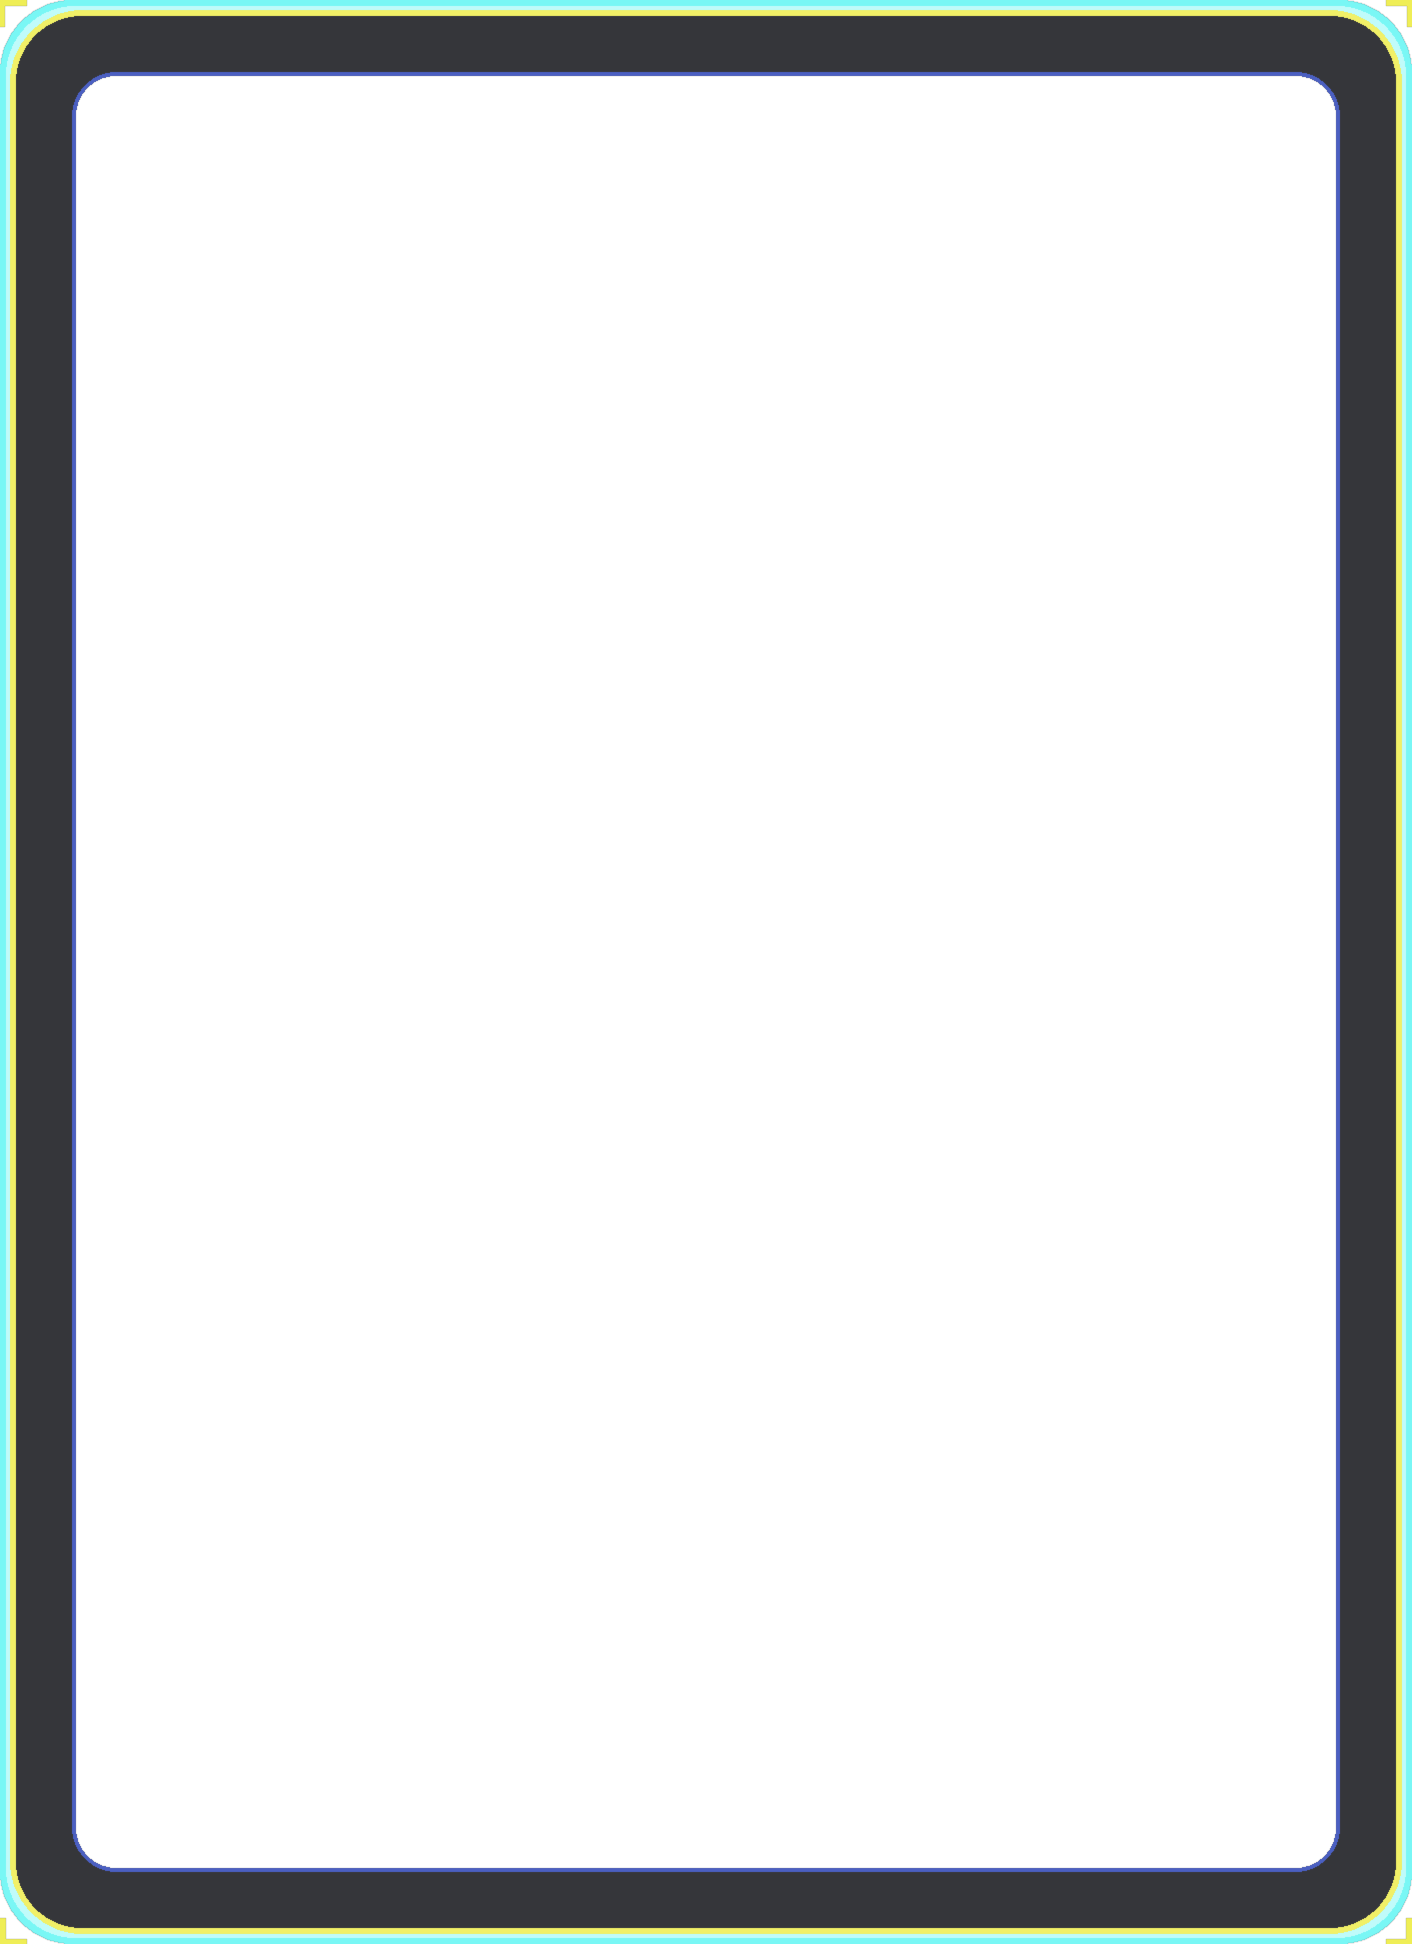
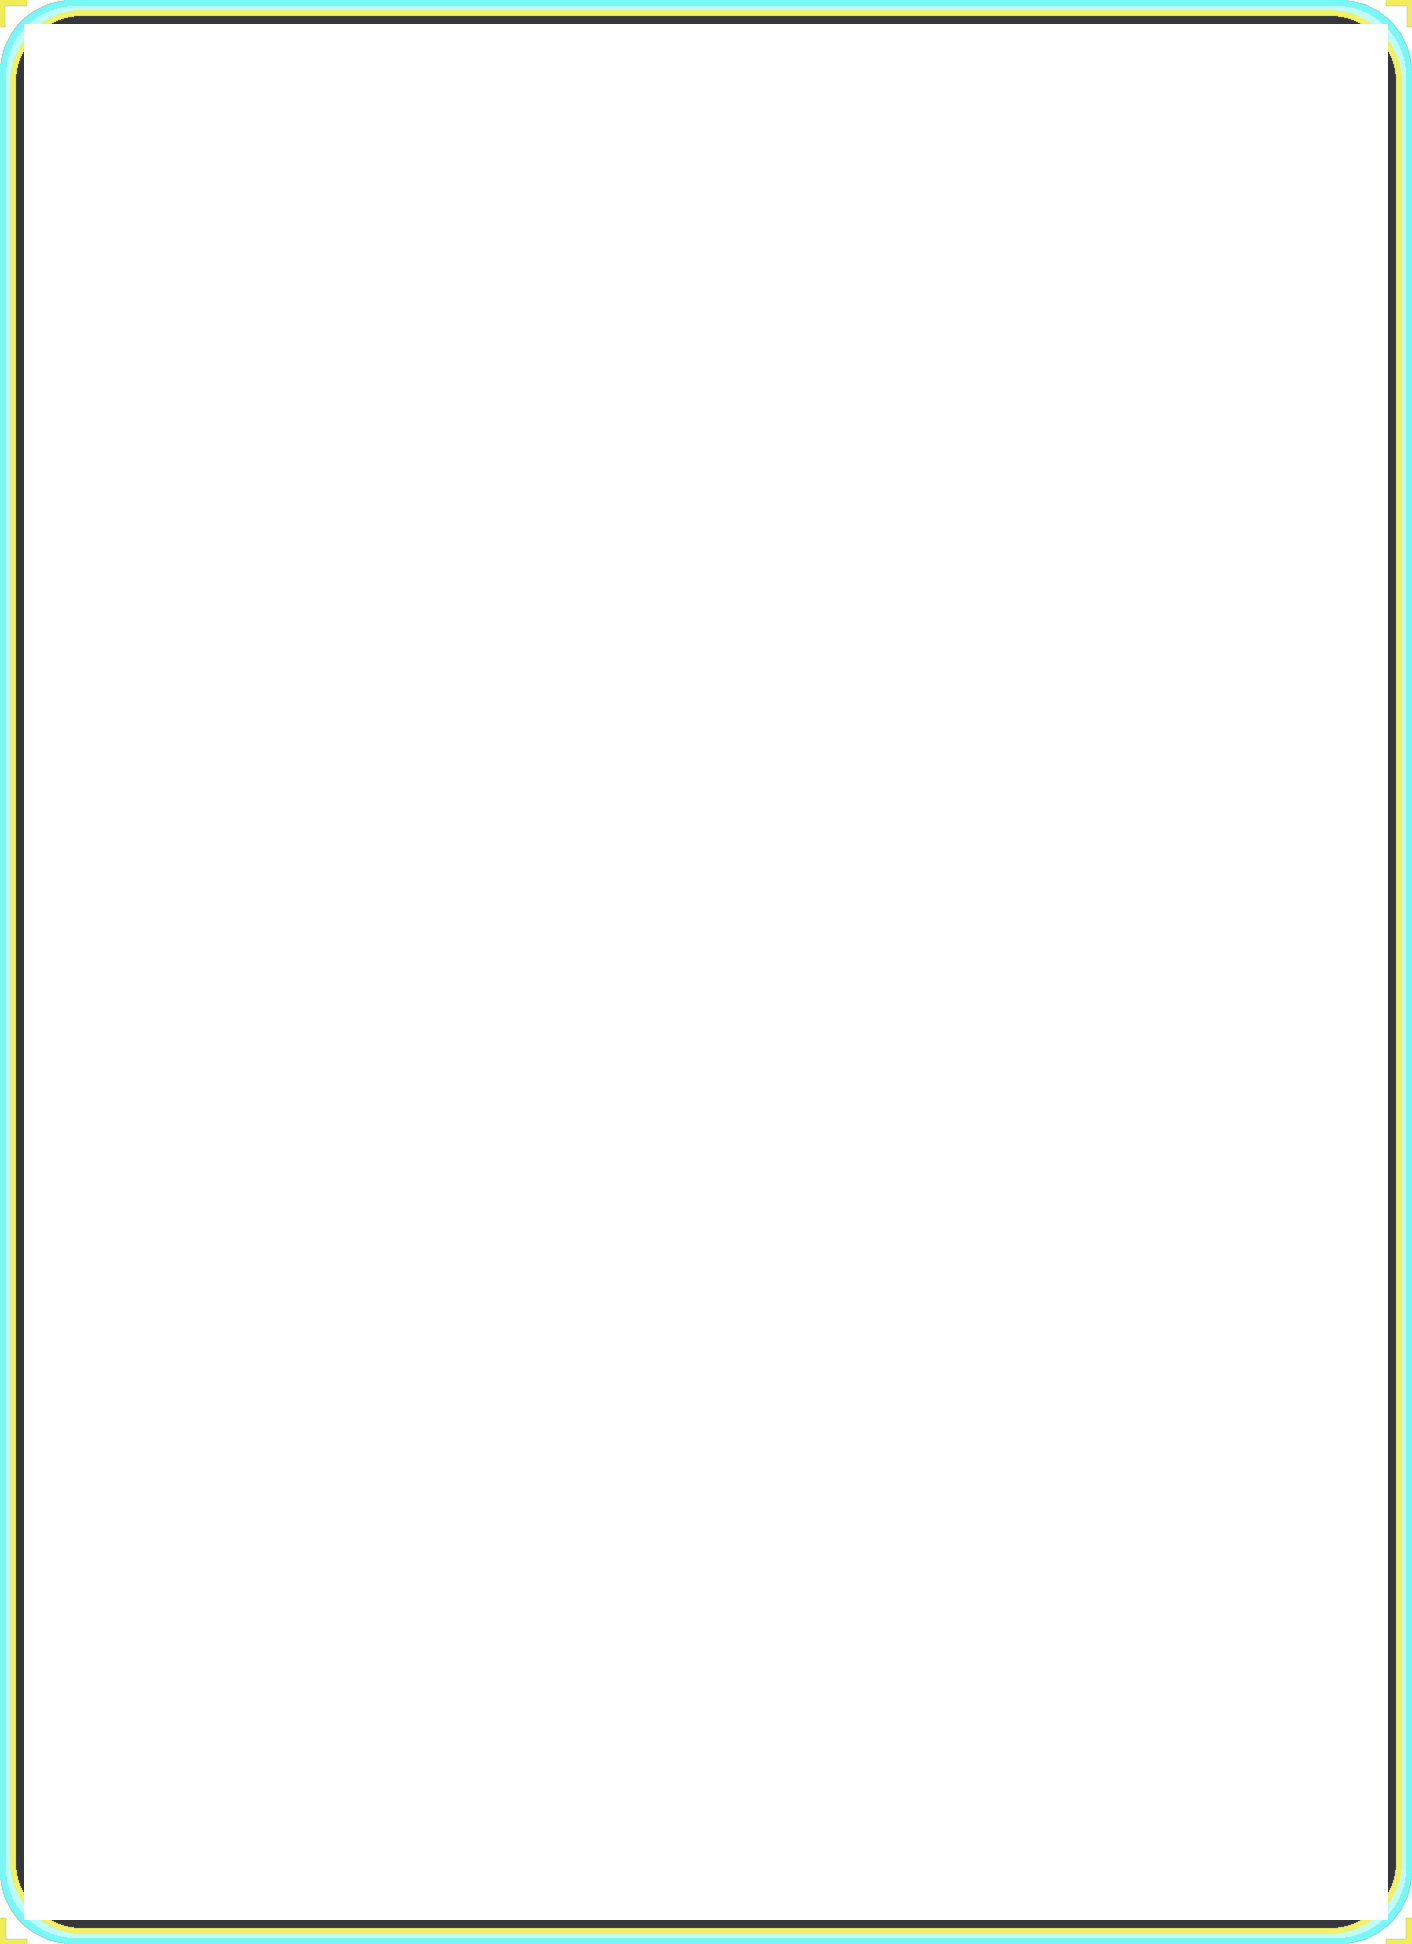
Add files via upload

Changed region(s): [[0.0, 0.0, 0.9972, 0.9877]]

diff --git a/wx-minigame-standard/mobile-wechat-standard.html b/wx-minigame-standard/mobile-wechat-standard.html
@@ -4,8 +4,8 @@
   <meta charset="UTF-8" />
   <meta name="viewport" content="width=device-width, initial-scale=1.0, viewport-fit=cover, user-scalable=no" />
   <title>我要当大王 - 微信小游戏迁移版</title>
-  <link rel="stylesheet" href="./styles.css?v=20260918-wxmini-29" />
-  <link rel="stylesheet" href="./wechat-shell-standard.css?v=20260918-wxmini-29" />
+  <link rel="stylesheet" href="./styles.css?v=20260918-wxmini-30" />
+  <link rel="stylesheet" href="./wechat-shell-standard.css?v=20260918-wxmini-30" />
 </head>
 <body class="mobile-play-page wechat-mini-body">
   <section id="guideSplash" class="wx-guide-splash" aria-label="导航页">
@@ -31,7 +31,7 @@
           </div>
           <div class="wx-home-mascot">👑</div>
         </div>
-        <p id="menuBuildNotice" class="wx-menu-build-notice">当前版本 standard-web · 更新时间 2026-09-18 wxmini-29</p>
+        <p id="menuBuildNotice" class="wx-menu-build-notice">当前版本 standard-web · 更新时间 2026-09-18 wxmini-30</p>
         <div class="wx-menu-buttons">
           <button id="menuStartBtn" class="primary-btn wx-menu-btn" type="button">直接开始</button>
           <button id="menuRankBtn" class="ghost-btn wx-menu-btn" type="button">排行榜</button>
@@ -405,25 +405,25 @@
   <script>
     window.__BLOB_MOBILE_MODE__ = true;
     window.__BLOB_GAME_VERSION__ = "standard-web";
-    window.__BLOB_BUILD_LABEL__ = "2026-09-18 wxmini-29";
+    window.__BLOB_BUILD_LABEL__ = "2026-09-18 wxmini-30";
     window.__BLOB_USER_SYNC_URL__ = window.__BLOB_USER_SYNC_URL__ || "";
   </script>
   <script>
     if ("serviceWorker" in navigator && /^https?:$/i.test(window.location.protocol)) {
       window.addEventListener("load", () => {
-        navigator.serviceWorker.register("./sw-standard.js?v=20260918-wxmini-29", { scope: "./" })
+        navigator.serviceWorker.register("./sw-standard.js?v=20260918-wxmini-30", { scope: "./" })
           .then((registration) => registration.update().catch(() => {}))
           .catch(() => {});
       });
     }
   </script>
-  <script src="./js/services/runtime-config.js?v=20260918-wxmini-29"></script>
-  <script src="./js/services/login-service.js?v=20260918-wxmini-29"></script>
-  <script src="./js/services/ad-service.js?v=20260918-wxmini-29"></script>
-  <script src="./js/services/share-service.js?v=20260918-wxmini-29"></script>
-  <script src="./js/services/rank-service.js?v=20260918-wxmini-29"></script>
-  <script src="./js/services/update-service.js?v=20260918-wxmini-29"></script>
-  <script src="./js/blob-merge-core.js?v=20260918-wxmini-29"></script>
-  <script src="./js/game-wechat-standard.js?v=20260918-wxmini-29"></script>
+  <script src="./js/services/runtime-config.js?v=20260918-wxmini-30"></script>
+  <script src="./js/services/login-service.js?v=20260918-wxmini-30"></script>
+  <script src="./js/services/ad-service.js?v=20260918-wxmini-30"></script>
+  <script src="./js/services/share-service.js?v=20260918-wxmini-30"></script>
+  <script src="./js/services/rank-service.js?v=20260918-wxmini-30"></script>
+  <script src="./js/services/update-service.js?v=20260918-wxmini-30"></script>
+  <script src="./js/blob-merge-core.js?v=20260918-wxmini-30"></script>
+  <script src="./js/game-wechat-standard.js?v=20260918-wxmini-30"></script>
 </body>
 </html>

diff --git a/wx-minigame-standard/mobile-wechat-offline-standard.html b/wx-minigame-standard/mobile-wechat-offline-standard.html
@@ -4,8 +4,8 @@
   <meta charset="UTF-8" />
   <meta name="viewport" content="width=device-width, initial-scale=1.0, viewport-fit=cover, user-scalable=no" />
   <title>我要当大王 - 迁移版离线页</title>
-  <link rel="stylesheet" href="./styles.css?v=20260918-wxmini-29" />
-  <link rel="stylesheet" href="./wechat-shell-standard.css?v=20260918-wxmini-29" />
+  <link rel="stylesheet" href="./styles.css?v=20260918-wxmini-30" />
+  <link rel="stylesheet" href="./wechat-shell-standard.css?v=20260918-wxmini-30" />
 </head>
 <body class="mobile-play-page wechat-mini-body">
   <section id="guideSplash" class="wx-guide-splash" aria-label="导航页">
@@ -31,7 +31,7 @@
           </div>
           <div class="wx-home-mascot">👑</div>
         </div>
-        <p id="menuBuildNotice" class="wx-menu-build-notice">当前版本 standard-offline · 更新时间 2026-09-18 wxmini-29</p>
+        <p id="menuBuildNotice" class="wx-menu-build-notice">当前版本 standard-offline · 更新时间 2026-09-18 wxmini-30</p>
         <div class="wx-menu-buttons">
           <button id="menuStartBtn" class="primary-btn wx-menu-btn" type="button">开始游戏</button>
           <button id="menuRankBtn" class="ghost-btn wx-menu-btn" type="button">排行榜</button>
@@ -405,16 +405,16 @@
   <script>
     window.__BLOB_MOBILE_MODE__ = true;
     window.__BLOB_GAME_VERSION__ = "standard-offline";
-    window.__BLOB_BUILD_LABEL__ = "2026-09-18 wxmini-29";
+    window.__BLOB_BUILD_LABEL__ = "2026-09-18 wxmini-30";
     window.__BLOB_USER_SYNC_URL__ = "";
   </script>
-  <script src="./js/services/runtime-config.js?v=20260918-wxmini-29"></script>
-  <script src="./js/services/login-service.js?v=20260918-wxmini-29"></script>
-  <script src="./js/services/ad-service.js?v=20260918-wxmini-29"></script>
-  <script src="./js/services/share-service.js?v=20260918-wxmini-29"></script>
-  <script src="./js/services/rank-service.js?v=20260918-wxmini-29"></script>
-  <script src="./js/services/update-service.js?v=20260918-wxmini-29"></script>
-  <script src="./js/blob-merge-core.js?v=20260918-wxmini-29"></script>
-  <script src="./js/game-wechat-standard.js?v=20260918-wxmini-29"></script>
+  <script src="./js/services/runtime-config.js?v=20260918-wxmini-30"></script>
+  <script src="./js/services/login-service.js?v=20260918-wxmini-30"></script>
+  <script src="./js/services/ad-service.js?v=20260918-wxmini-30"></script>
+  <script src="./js/services/share-service.js?v=20260918-wxmini-30"></script>
+  <script src="./js/services/rank-service.js?v=20260918-wxmini-30"></script>
+  <script src="./js/services/update-service.js?v=20260918-wxmini-30"></script>
+  <script src="./js/blob-merge-core.js?v=20260918-wxmini-30"></script>
+  <script src="./js/game-wechat-standard.js?v=20260918-wxmini-30"></script>
 </body>
 </html>

diff --git a/wx-minigame-standard/js/services/runtime-config.js b/wx-minigame-standard/js/services/runtime-config.js
@@ -24,7 +24,7 @@
 
     return {
       version: readString(root, "__BLOB_GAME_VERSION__", wxApi ? "standard-minigame" : "standard-web"),
-      buildLabel: readString(root, "__BLOB_BUILD_LABEL__", "2026-09-18 wxmini-29"),
+      buildLabel: readString(root, "__BLOB_BUILD_LABEL__", "2026-09-18 wxmini-30"),
       appId: readString(overrides, "appId", wxApi ? "touristappid" : ""),
       apiBaseUrl: apiBase,
       sync: {

diff --git a/wx-minigame-standard/sw-standard.js b/wx-minigame-standard/sw-standard.js
@@ -1,4 +1,4 @@
-const CACHE_NAME = "blob-merge-prototype-standard-offline-cache-20260918-wxmini-29";
+const CACHE_NAME = "blob-merge-prototype-standard-offline-cache-20260918-wxmini-30";
 const OFFLINE_FALLBACK = "./mobile-wechat-offline-standard.html";
 const PRECACHE_URLS = [
   "./",
